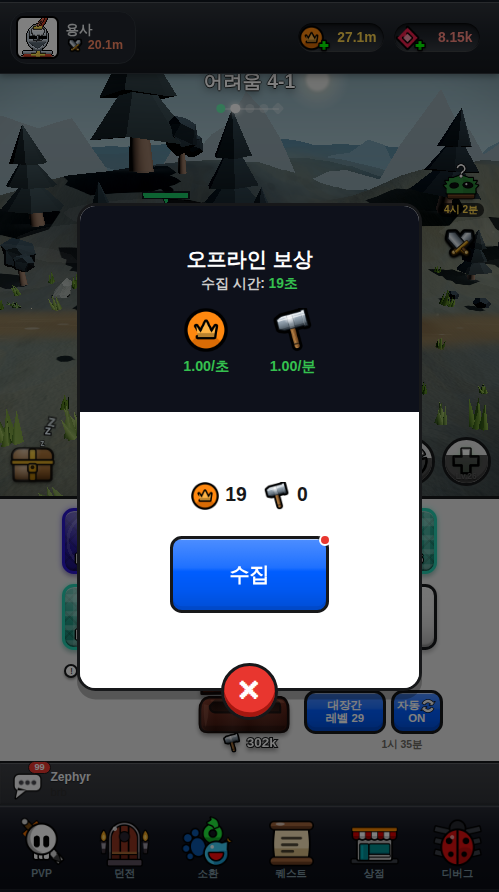
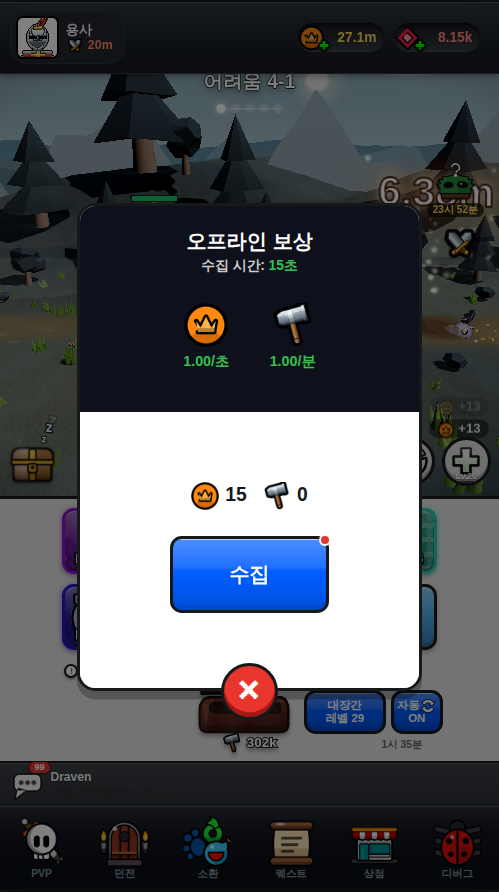
오프라인 보상 제목을 원본대로 헤더 상단 정렬(+2.52%p 처짐 교정, 요율 행 34.5%H 유지) (ui-ratio-audit)
Claude-Session: https://claude.ai/code/session_01EJPyPPvCkDp4nEfpsx176M

diff --git a/web/css/style.css b/web/css/style.css
@@ -208,12 +208,14 @@ body {
 .offline-top {
     background: #0e111b; color: #fff;
     padding: 1.3rem .9rem 1.1rem; text-align: center; flex: 0 0 42.80%; /* 원본 헤더 23.27%H / 카드 콘텐츠 54.37%H */
-    display: flex; flex-direction: column; justify-content: center;
+    /* 원본은 제목이 헤더 상단에 붙는다(제목 잉크 25.84%H·요율 행 34.56%H 실측) — center 는 제목을
+       +2.52%p 내려 보냈다(전수 검증 채점 1차 2인 공통, 픽셀 교차검증). 위 정렬 + 요율 행 여백으로 재현. */
+    display: flex; flex-direction: column; justify-content: flex-start;
 }
 .offline-title { font-size: 1.2rem; font-weight: 900; margin-bottom: .15rem; }
 .offline-sub { font-size: .82rem; font-weight: 700; color: #ccc; }
 .offline-sub b { color: var(--pp-green); font-weight: 900; }
-.offline-rates { display: flex; justify-content: center; gap: 2.4rem; margin-top: .9rem; }
+.offline-rates { display: flex; justify-content: center; gap: 2.4rem; margin-top: 1.65rem; } /* flex-start 전환분 보상(+.75rem) — 요율 행 34.5%H 유지 */
 .offline-rate { display: flex; flex-direction: column; align-items: center; gap: .3rem; }
 .offline-rate-icon {
     width: 2.6rem; height: 2.6rem; border-radius: 50%; font-size: 1.4rem;
